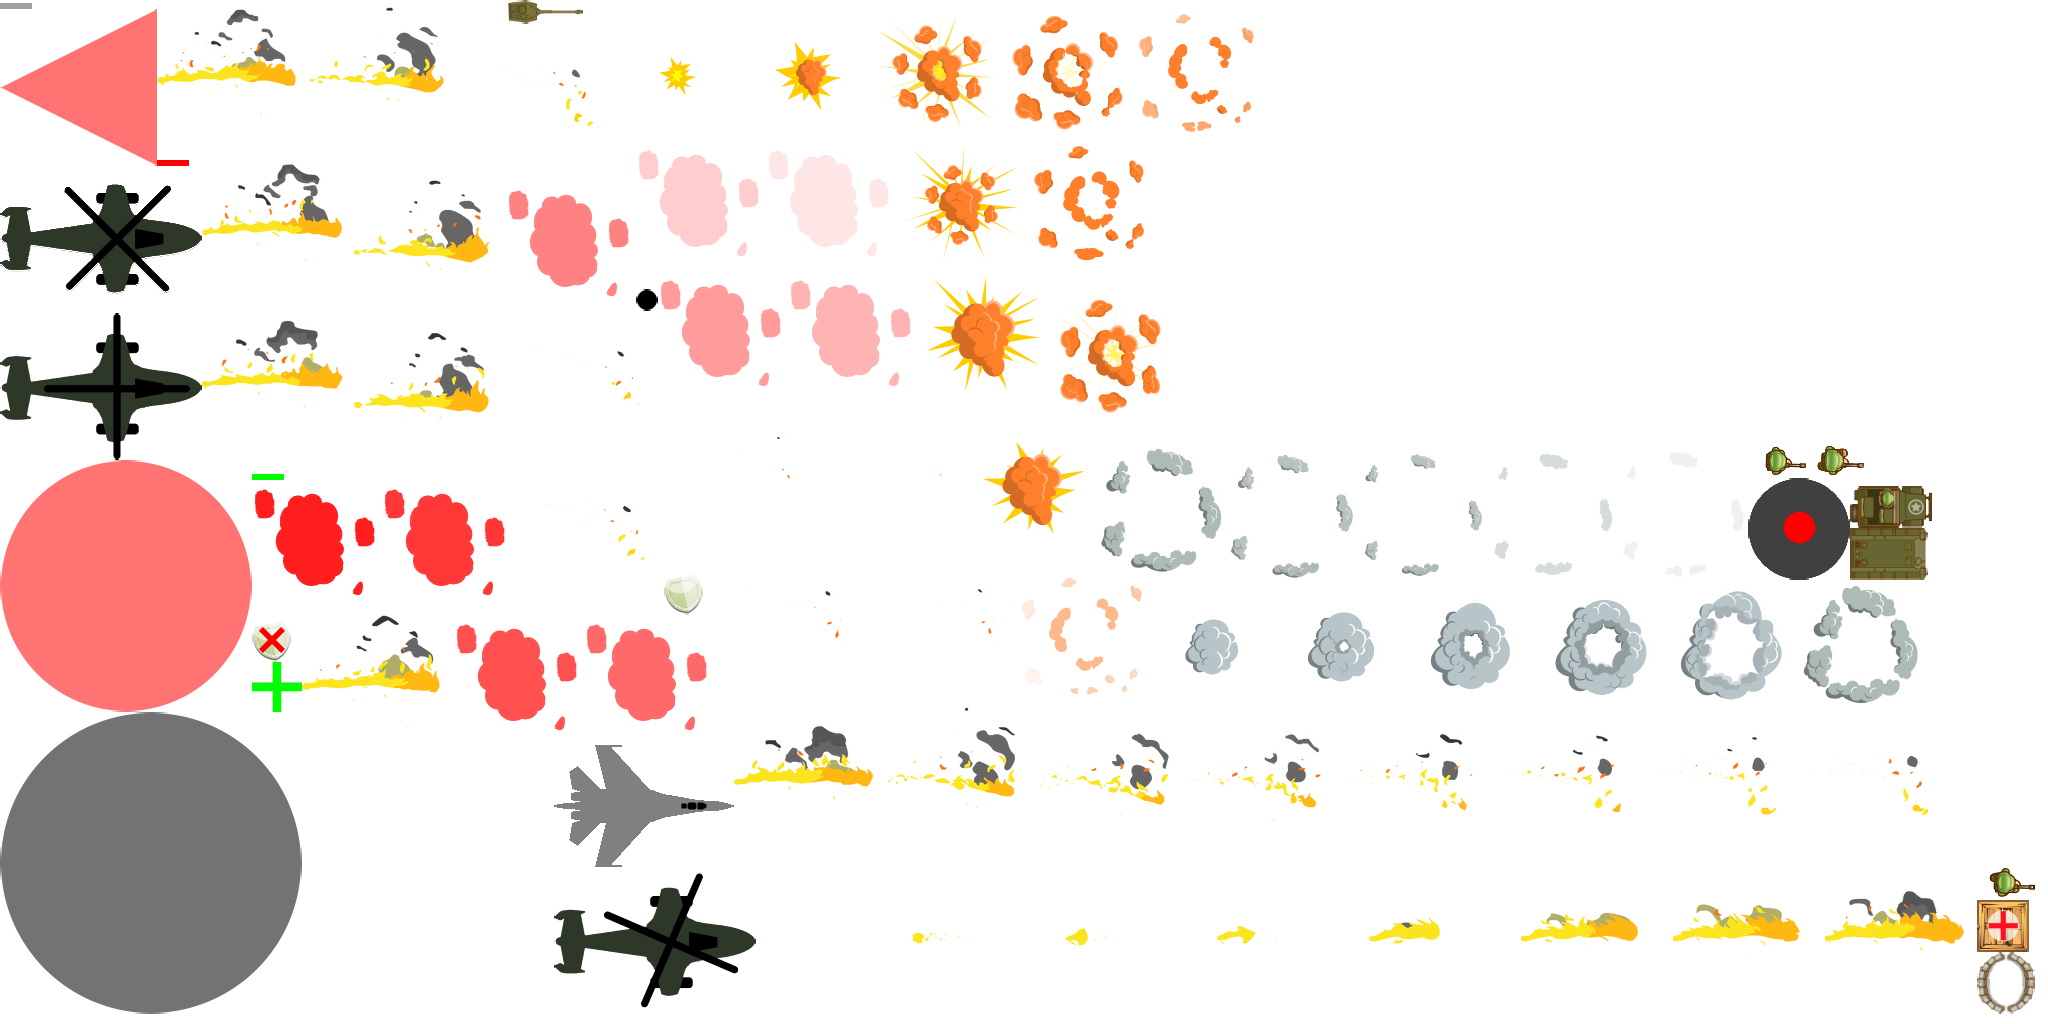
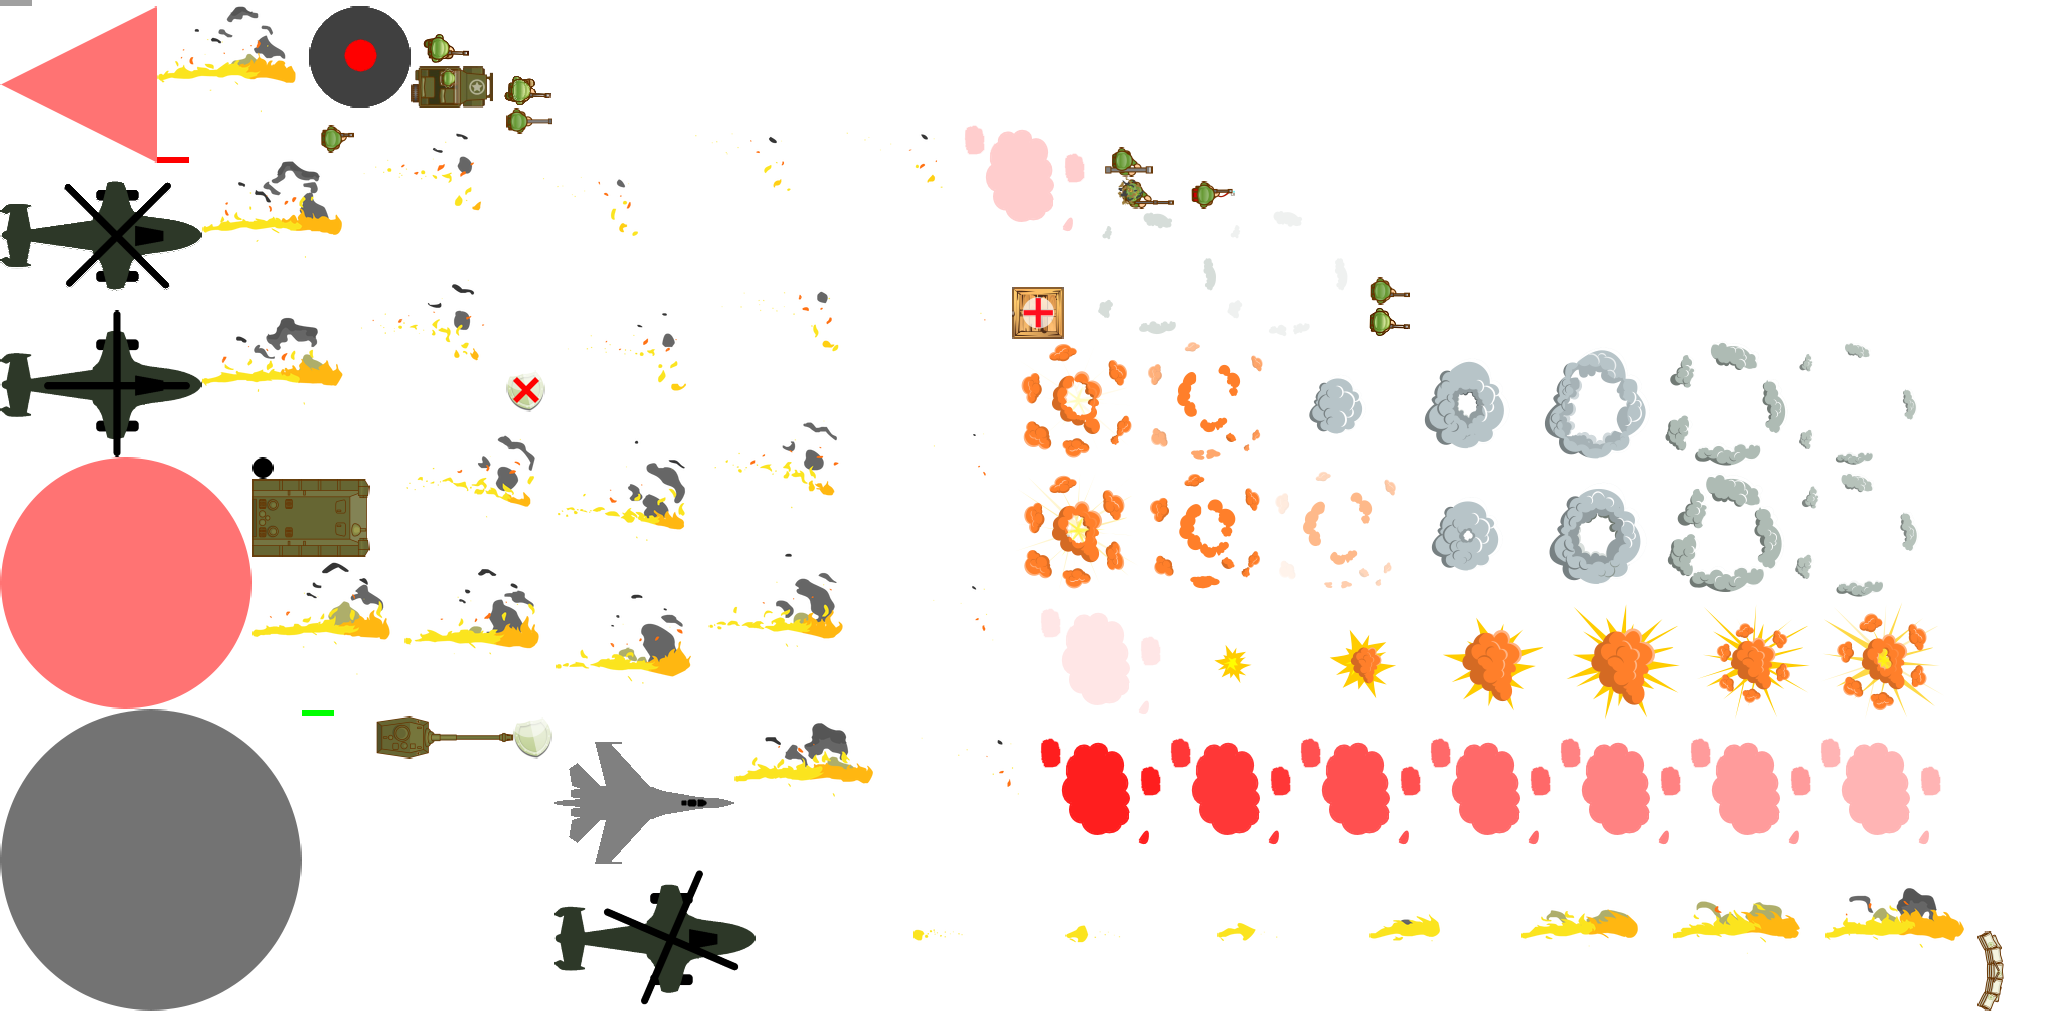
148 - added new tower images

diff --git a/core/src/com/foxholedefense/game/service/factory/ActorFactory.java b/core/src/com/foxholedefense/game/service/factory/ActorFactory.java
@@ -127,13 +127,17 @@ public class ActorFactory implements ICombatActorFactory, IHealthFactory, ISuppo
 		loadedTextures.put("healthbar-life", actorAtlas.findRegion("healthbar-life"));
 		loadedTextures.put("humvee", actorAtlas.findRegion("humvee"));
 		loadedTextures.put("landmine", actorAtlas.findRegion("landmine"));
-		loadedTextures.put("rifle-stationary", actorAtlas.findRegion("rifle-stationary"));
+		loadedTextures.put("tower-rifle", actorAtlas.findRegion("tower-rifle"));
+		loadedTextures.put("tower-machine-gun", actorAtlas.findRegion("tower-machine-gun"));
+		loadedTextures.put("tower-sniper", actorAtlas.findRegion("tower-sniper"));
+		loadedTextures.put("tower-flamethrower", actorAtlas.findRegion("tower-flamethrower"));
+		loadedTextures.put("tower-rocket-launcher", actorAtlas.findRegion("tower-rocket-launcher"));
+		loadedTextures.put("tower-turret-turret", actorAtlas.findRegion("tower-turret-turret"));
+		loadedTextures.put("tower-turret-bags", actorAtlas.findRegion("tower-turret-bags"));
+		loadedTextures.put("tower-tank-body", actorAtlas.findRegion("tower-tank-body"));
+		loadedTextures.put("tower-tank-turret", actorAtlas.findRegion("tower-tank-turret"));
 		loadedTextures.put("supply-drop", actorAtlas.findRegion("supply-drop"));
 		loadedTextures.put("supply-drop-crate", actorAtlas.findRegion("supply-drop-crate"));
-		loadedTextures.put("tank", actorAtlas.findRegion("tank"));
-		loadedTextures.put("tank-turret", actorAtlas.findRegion("tank-turret"));
-		loadedTextures.put("turret-bags", actorAtlas.findRegion("turret-bags"));
-		loadedTextures.put("turret-machine", actorAtlas.findRegion("turret-machine"));
 		loadedTextures.put("apache-stationary", actorAtlas.findRegion("apache",1));
 		loadedTextures.put("shield", actorAtlas.findRegion("shield"));
 
@@ -384,54 +388,54 @@ public class ActorFactory implements ICombatActorFactory, IHealthFactory, ISuppo
 	protected CombatActor createCombatActor(Class<? extends CombatActor> type, Group targetGroup) {
 		CombatActor actor = null;
 		if (type.equals(TowerRifle.class)) {
-			TextureRegion rifleRegion = loadedTextures.get("rifle-stationary");
+			TextureRegion rifleRegion = loadedTextures.get("tower-rifle");
 			actor = new TowerRifle(rifleRegion, towerRiflePool, targetGroup, loadedTextures.get("range-white"), loadedTextures.get("range-red"), this, this, audio);
 		} else if (type.equals(TowerFlameThrower.class)) {
-			TextureRegion flameThrowerRegion = loadedTextures.get("rifle-stationary");
+			TextureRegion flameThrowerRegion = loadedTextures.get("tower-flamethrower");
 			actor = new TowerFlameThrower(flameThrowerRegion, towerFlameThrowerPool, targetGroup, loadedTextures.get("range-white"), loadedTextures.get("range-red"), this, this, audio);
 		} else if (type.equals(TowerSniper.class)) {
-			TextureRegion sniperRegion = loadedTextures.get("rifle-stationary");
+			TextureRegion sniperRegion = loadedTextures.get("tower-sniper");
 			actor = new TowerSniper(sniperRegion, towerSniperPool, targetGroup, loadedTextures.get("range-white"), loadedTextures.get("range-red"), this, this, audio);
 		} else if (type.equals(TowerMachineGun.class)) {
-			TextureRegion machineRegion = loadedTextures.get("rifle-stationary");
+			TextureRegion machineRegion = loadedTextures.get("tower-machine-gun");
 			actor = new TowerMachineGun(machineRegion, towerMachinePool, targetGroup, loadedTextures.get("range-white"), loadedTextures.get("range-red"), this, this, audio);
 		} else if (type.equals(TowerRocketLauncher.class)) {
-			TextureRegion rocketLauncherRegion = loadedTextures.get("rifle-stationary");
+			TextureRegion rocketLauncherRegion = loadedTextures.get("tower-rocket-launcher");
 			actor = new TowerRocketLauncher(rocketLauncherRegion, towerRocketLauncherPool, targetGroup, loadedTextures.get("range-white"), loadedTextures.get("range-red"), this, this, audio);
 		} else if (type.equals(TowerTank.class)) {
-			TextureRegion tankRegion = loadedTextures.get("tank");
-			TextureRegion turretRegion = loadedTextures.get("tank-turret");
+			TextureRegion tankRegion = loadedTextures.get("tower-tank-body");
+			TextureRegion turretRegion = loadedTextures.get("tower-tank-turret");
 			actor = new TowerTank(tankRegion, turretRegion, towerTankPool, targetGroup, loadedTextures.get("range-white"), loadedTextures.get("range-red"), this, this);
 		} else if (type.equals(TowerTurret.class)) {
-			TextureRegion machineRegion = loadedTextures.get("turret-machine");
-			TextureRegion bagsRegion = loadedTextures.get("turret-bags");
+			TextureRegion machineRegion = loadedTextures.get("tower-turret-turret");
+			TextureRegion bagsRegion = loadedTextures.get("tower-turret-bags");
 			actor = new TowerTurret(bagsRegion, machineRegion, towerTurretPool, targetGroup, loadedTextures.get("range-white-turret"), loadedTextures.get("range-red-turret"), this, this, audio);
 		} else if (type.equals(EnemyRifle.class)) {
 			TextureRegion[] animatedRegions = loadedAtlasRegions.get("rifle").toArray(TextureRegion.class);
-			TextureRegion stationaryRegion = loadedTextures.get("rifle-stationary");
+			TextureRegion stationaryRegion = loadedTextures.get("tower-rifle");
 			actor = new EnemyRifle(stationaryRegion, animatedRegions, enemyRiflePool, targetGroup, this, this, audio);
 		} else if (type.equals(EnemyFlameThrower.class)) {
 			TextureRegion[] animatedRegions = loadedAtlasRegions.get("rifle").toArray(TextureRegion.class);
-			TextureRegion stationaryRegion = loadedTextures.get("rifle-stationary");
+			TextureRegion stationaryRegion = loadedTextures.get("tower-rifle");
 			actor = new EnemyFlameThrower(stationaryRegion, animatedRegions, enemyFlameThrowerPool, targetGroup, this, this, audio);
 		} else if (type.equals(EnemyHumvee.class)) {
 			TextureRegion humveeRegion = loadedTextures.get("humvee");
 			actor = new EnemyHumvee(humveeRegion, new TextureRegion[]{humveeRegion}, enemyHumveePool, this);
 		} else if (type.equals(EnemyMachineGun.class)) {
 			TextureRegion[] animatedRegions = loadedAtlasRegions.get("rifle").toArray(TextureRegion.class);
-			TextureRegion stationaryRegion = loadedTextures.get("rifle-stationary");
+			TextureRegion stationaryRegion = loadedTextures.get("tower-rifle");
 			actor = new EnemyMachineGun(stationaryRegion, animatedRegions, enemyMachinePool, targetGroup, this, this, audio);
 		} else if (type.equals(EnemyRocketLauncher.class)) {
 			TextureRegion[] animatedRegions = loadedAtlasRegions.get("rifle").toArray(TextureRegion.class);
-			TextureRegion stationaryRegion = loadedTextures.get("rifle-stationary");
+			TextureRegion stationaryRegion = loadedTextures.get("tower-rifle");
 			actor = new EnemyRocketLauncher(stationaryRegion, animatedRegions, enemyRocketLauncherPool, targetGroup, this, this, audio);
 		} else if (type.equals(EnemySniper.class)) {
 			TextureRegion[] animatedRegions = loadedAtlasRegions.get("rifle").toArray(TextureRegion.class);
-			TextureRegion stationaryRegion = loadedTextures.get("rifle-stationary");
+			TextureRegion stationaryRegion = loadedTextures.get("tower-rifle");
 			actor = new EnemySniper(stationaryRegion, animatedRegions, enemySniperPool, targetGroup, this, this, audio);
 		} else if (type.equals(EnemyTank.class)) {
-			TextureRegion tankRegion = loadedTextures.get("tank");
-			TextureRegion turretRegion = loadedTextures.get("tank-turret");
+			TextureRegion tankRegion = loadedTextures.get("tower-tank-body");
+			TextureRegion turretRegion = loadedTextures.get("tower-tank-turret");
 			actor = new EnemyTank(tankRegion, turretRegion, new TextureRegion[]{turretRegion}, enemyTankPool, targetGroup, this, this);
 		} else {
 			throw new NullPointerException("Actor factory couldn't create: " + type.getSimpleName());

diff --git a/core/src/com/foxholedefense/game/model/actor/combat/tower/TowerTurret.java b/core/src/com/foxholedefense/game/model/actor/combat/tower/TowerTurret.java
@@ -43,8 +43,8 @@ public class TowerTurret extends Tower implements IRotatable {
 	public static final int SPEED_INCREASE_COST = 500;
 	public static final int ATTACK_INCREASE_COST = 500;
 	public static final Vector2 GUN_POS = new Vector2(26, -4);
-	public static final Dimension TEXTURE_BODY_SIZE = new Dimension(56, 60);
-	public static final Dimension TEXTURE_TURRET_SIZE = new Dimension(56, 32);
+	public static final Dimension TEXTURE_BODY_SIZE = new Dimension(42,78);
+	public static final Dimension TEXTURE_TURRET_SIZE = new Dimension(71, 24);
 	private float[] rangeCoords = { (TEXTURE_BODY_SIZE.getWidth() / 2)
 			, (TEXTURE_BODY_SIZE.getHeight() / 2)
 			, RANGE + (TEXTURE_BODY_SIZE.getWidth() / 2)

diff --git a/core/src/com/foxholedefense/game/model/actor/combat/tower/TowerTank.java b/core/src/com/foxholedefense/game/model/actor/combat/tower/TowerTank.java
@@ -43,8 +43,8 @@ public class TowerTank extends Tower implements IVehicle, IPlatedArmor, IRotatab
 	public static final float AOE_RADIUS = 75f;
 	public static final Dimension RPG_SIZE = new Dimension(7, 7);
 	public static final Vector2 GUN_POS = new Vector2(57, 0);
-	public static final Dimension TEXTURE_BODY_SIZE = new Dimension(76, 50);
-	public static final Dimension TEXTURE_TURRET_SIZE = new Dimension(120, 22);
+	public static final Dimension TEXTURE_BODY_SIZE = new Dimension(116, 76);
+	public static final Dimension TEXTURE_TURRET_SIZE = new Dimension(209,41);
 	private float[] bodyPoints = { 0, 0, 0, 50, 76, 50, 76, 0 };
 	private Polygon body;
 	private TextureRegion bodyRegion;

diff --git a/core/src/com/foxholedefense/game/model/actor/combat/tower/TowerFlameThrower.java b/core/src/com/foxholedefense/game/model/actor/combat/tower/TowerFlameThrower.java
@@ -33,7 +33,7 @@ public class TowerFlameThrower extends Tower implements IFlame {
 	public static final int SPEED_INCREASE_COST = 450;
 	public static final int ATTACK_INCREASE_COST = 450;
 	public static final Vector2 GUN_POS = new Vector2(26, -4);
-	public static final Dimension TEXTURE_SIZE = new Dimension(56, 32);
+	public static final Dimension TEXTURE_SIZE = new Dimension(59, 26);
 	private Circle body;
 	private Dimension flameSize = new Dimension(RANGE-26, 20);
 	private FHDAudio audio;

diff --git a/core/src/com/foxholedefense/game/model/actor/combat/tower/TowerRocketLauncher.java b/core/src/com/foxholedefense/game/model/actor/combat/tower/TowerRocketLauncher.java
@@ -35,7 +35,7 @@ public class TowerRocketLauncher extends Tower implements IRpg {
 	public static final float AOE_RADIUS = 50f;
 	public static final Dimension RPG_SIZE = new Dimension(7, 7);
 	public static final Vector2 GUN_POS = new Vector2(26, -4);
-	public static final Dimension TEXTURE_SIZE = new Dimension(56, 32);
+	public static final Dimension TEXTURE_SIZE = new Dimension(59, 28);
 	private Circle body;
 	private FHDAudio audio;
 	private IDeathEffectFactory deathEffectFactory;

diff --git a/core/src/com/foxholedefense/game/model/actor/combat/tower/TowerSniper.java b/core/src/com/foxholedefense/game/model/actor/combat/tower/TowerSniper.java
@@ -34,7 +34,7 @@ public class TowerSniper extends Tower {
 	public static final int ATTACK_INCREASE_COST = 100;
 	public static final Dimension BULLET_SIZE = new Dimension(5, 5);
 	public static final Vector2 GUN_POS = new Vector2(26, -4);
-	public static final Dimension TEXTURE_SIZE = new Dimension(56, 32);
+	public static final Dimension TEXTURE_SIZE = new Dimension(80,30);
 	private Circle body;
 	private FHDAudio audio;
 	private IDeathEffectFactory deathEffectFactory;

diff --git a/core/src/com/foxholedefense/game/model/actor/combat/tower/TowerMachineGun.java b/core/src/com/foxholedefense/game/model/actor/combat/tower/TowerMachineGun.java
@@ -33,7 +33,7 @@ public class TowerMachineGun extends Tower {
 	public static final int SPEED_INCREASE_COST = 100;
 	public static final int ATTACK_INCREASE_COST = 100;
 	public static final Vector2 GUN_POS = new Vector2(26, -4);
-	public static final Dimension TEXTURE_SIZE = new Dimension(56, 32);
+	public static final Dimension TEXTURE_SIZE = new Dimension(43, 26);
 	private Circle body;
 	private FHDAudio audio;
 	private IDeathEffectFactory deathEffectFactory;

diff --git a/core/src/com/foxholedefense/game/model/actor/combat/tower/TowerRifle.java b/core/src/com/foxholedefense/game/model/actor/combat/tower/TowerRifle.java
@@ -33,7 +33,7 @@ public class TowerRifle extends Tower {
 	public static final int SPEED_INCREASE_COST = 50;
 	public static final int ATTACK_INCREASE_COST = 50;
 	public static final Vector2 GUN_POS = new Vector2(26, -4);
-	public static final Dimension TEXTURE_SIZE = new Dimension(56, 32);
+	public static final Dimension TEXTURE_SIZE = new Dimension(56, 26);
 	private Circle body;
 	private FHDAudio audio;
 	private IDeathEffectFactory deathEffectFactory;
